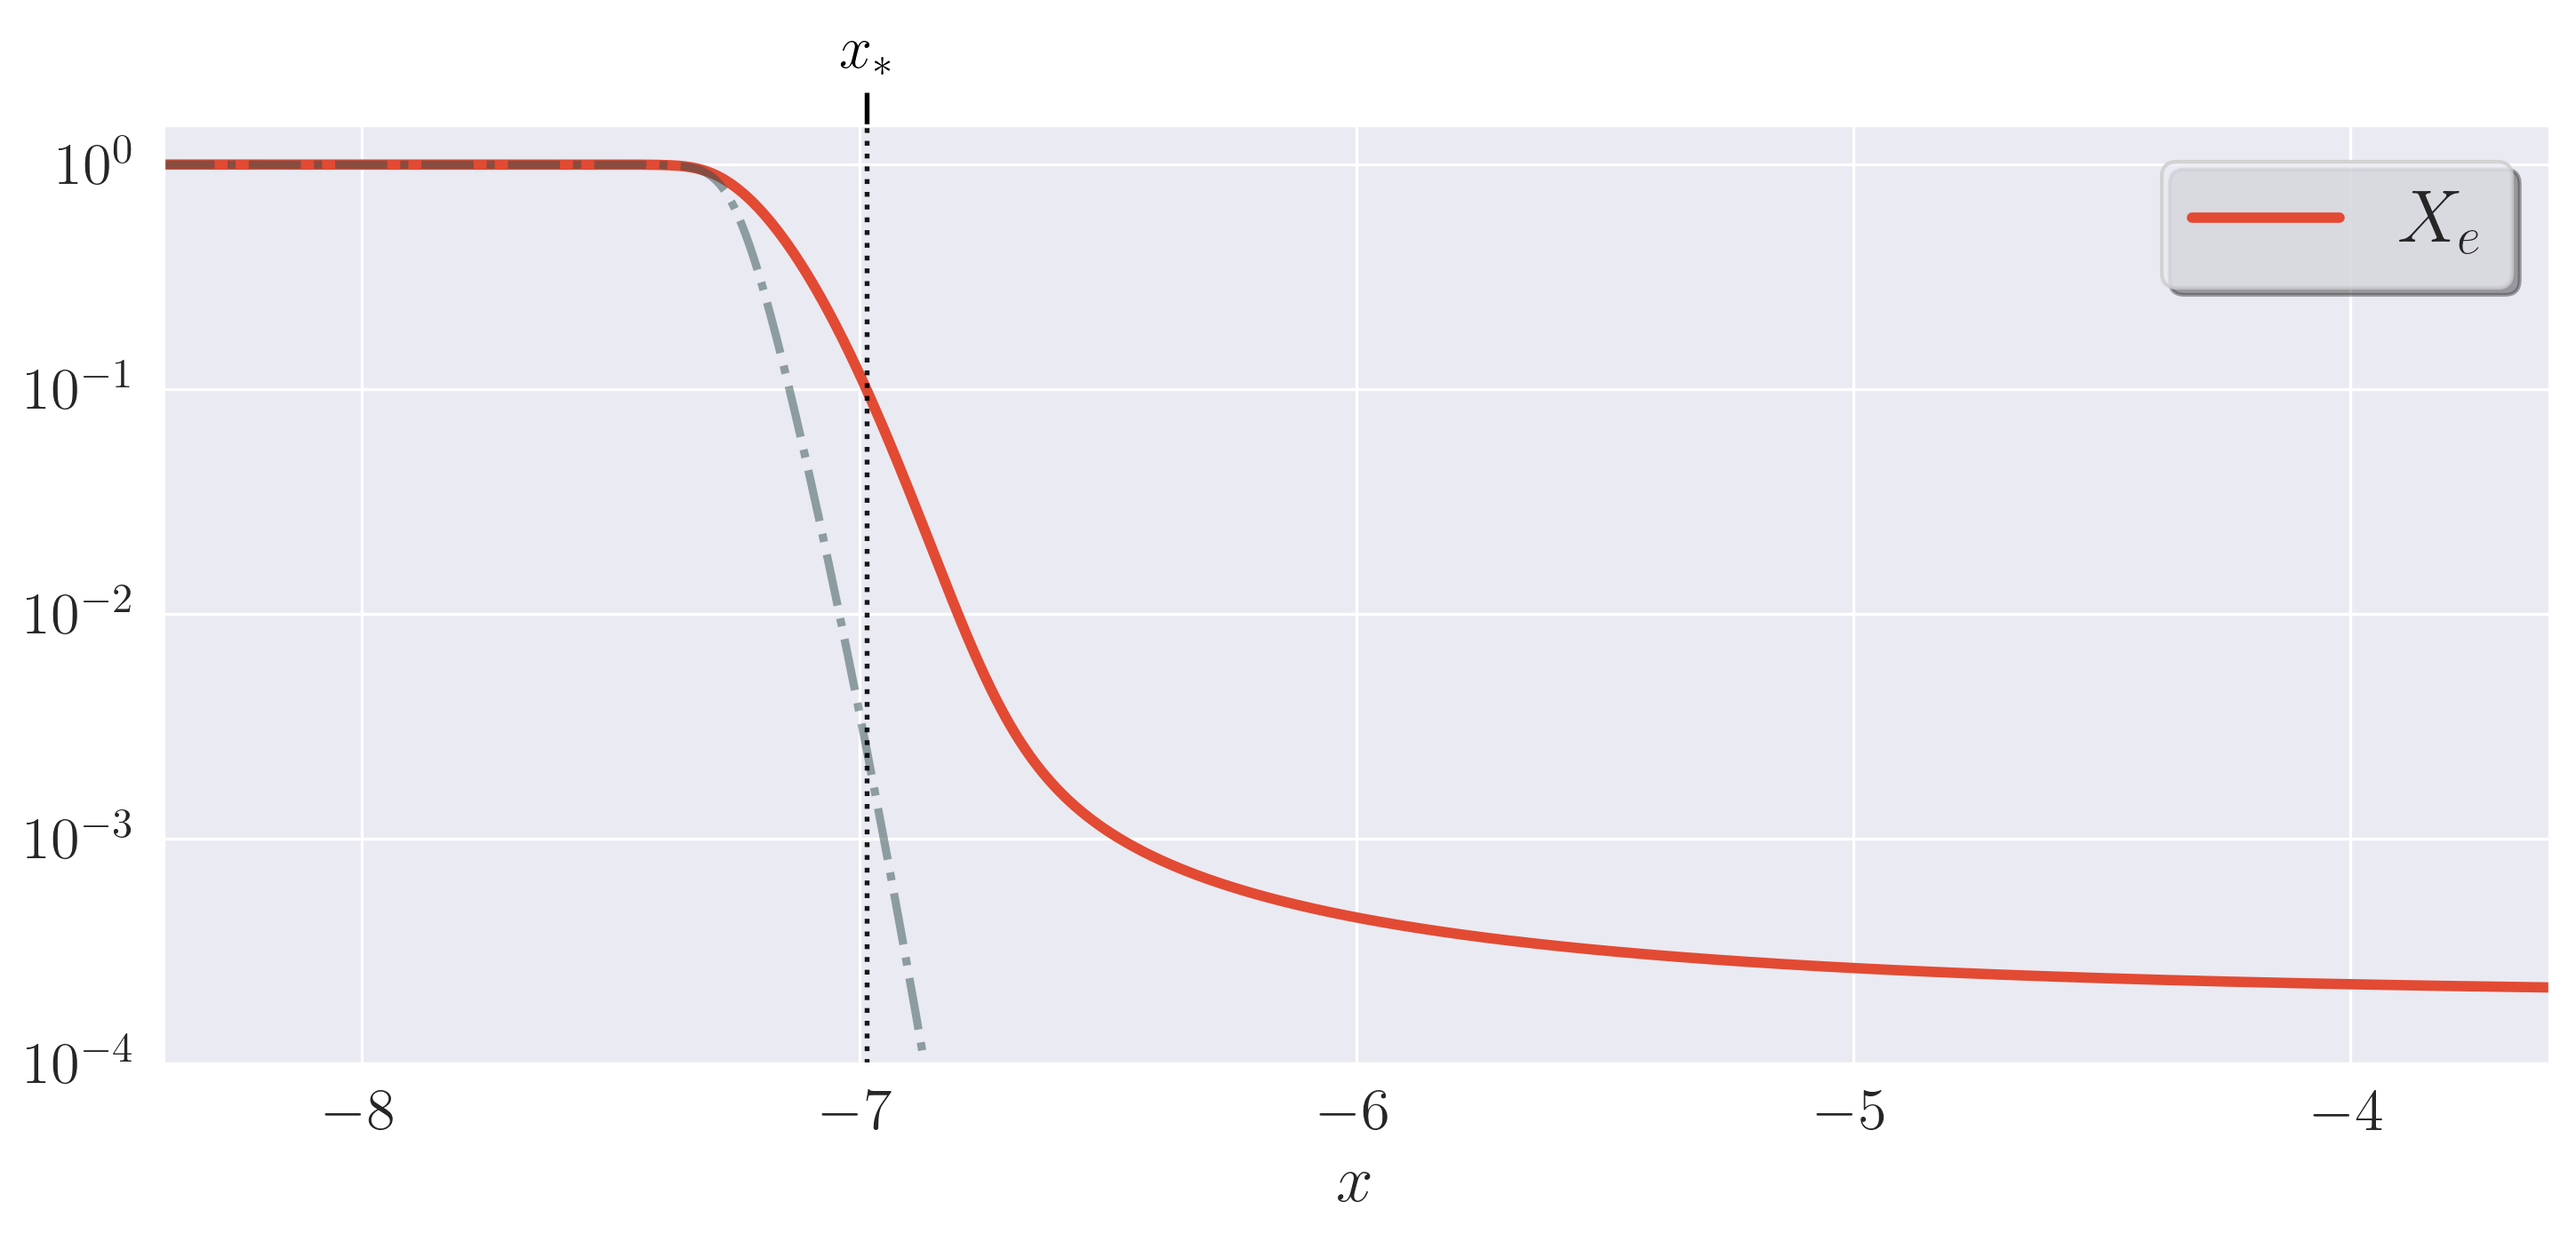
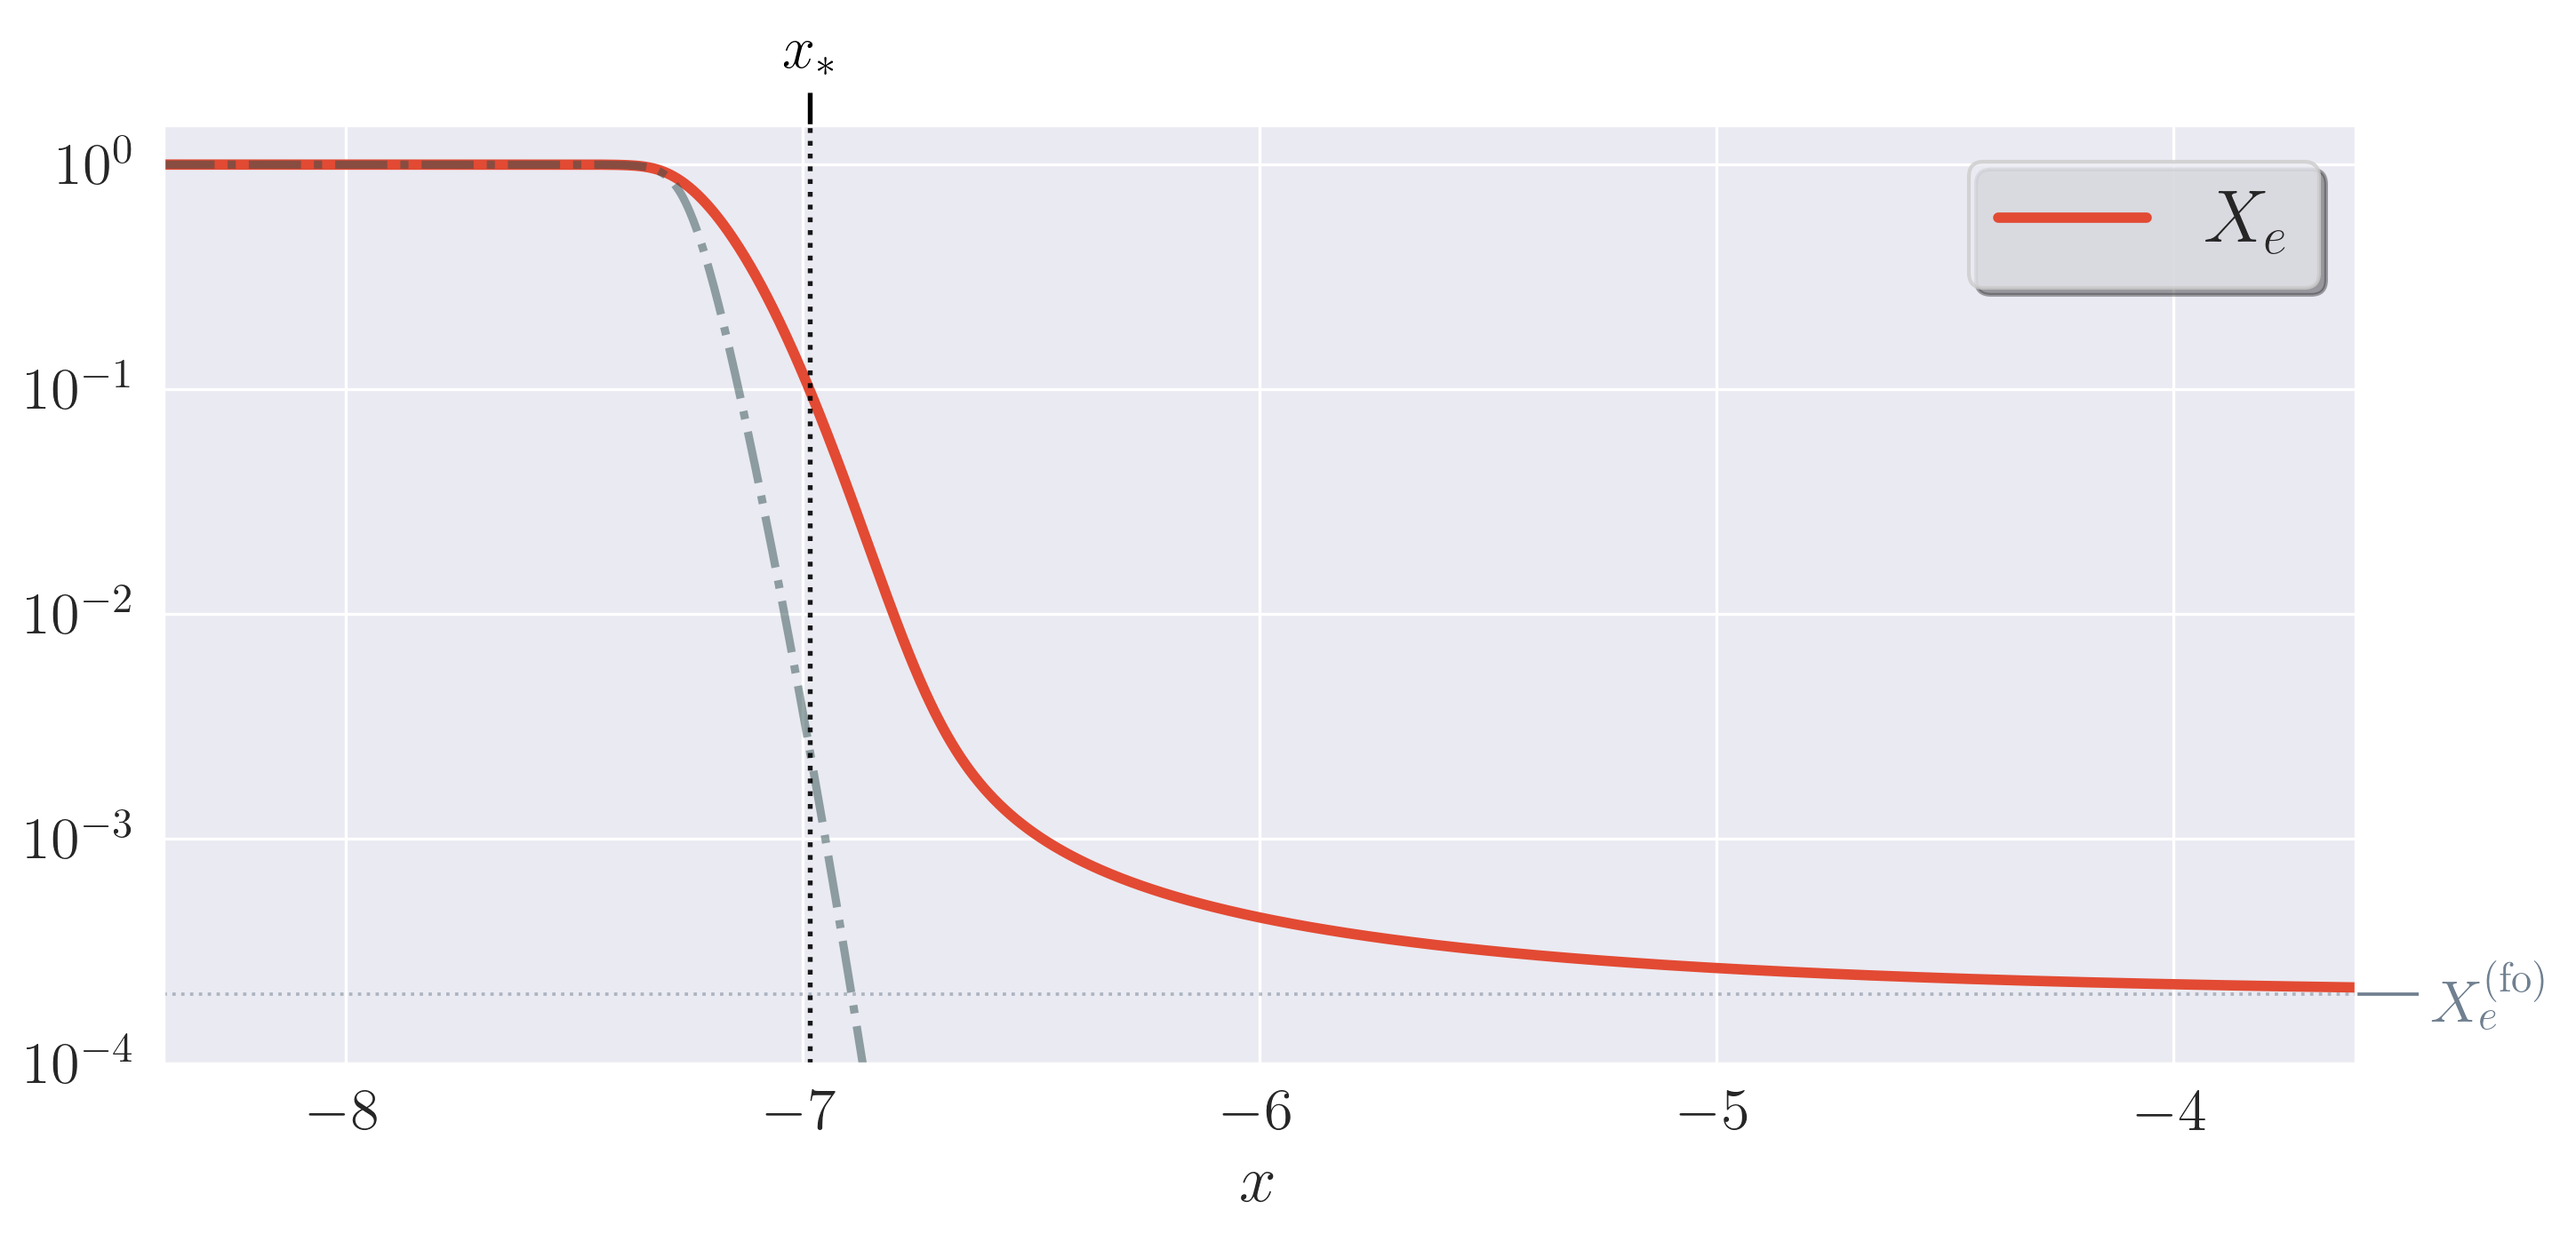
updated output

diff --git a/src/plotting/milestone_two.py b/src/plotting/milestone_two.py
@@ -17,7 +17,7 @@ rec = read_ASCII("recombination")
 rec_Saha = read_ASCII("recombination_Saha_only")
 
 x_rec = -6.985
-
+Xe_fo = 2.026e-4
 
 
 x, Xe = rec[:,0], rec[:,1]
@@ -39,8 +39,9 @@ ax.set_ylim(ylim)
 ax.set_xlim(-8.4,-3.6)
 
 
+
 pinpoint_x(ax, [x_rec], [tex("x_*")], **rec_kw)
-# pinpoint_y(ax, [0.99], ["0.99"], right=True)
+pinpoint_y(ax, [Xe_fo], [tex("X_{e}" + tex.ap("(fo)"))], right=True)
 
 
 save("electron_fraction")
